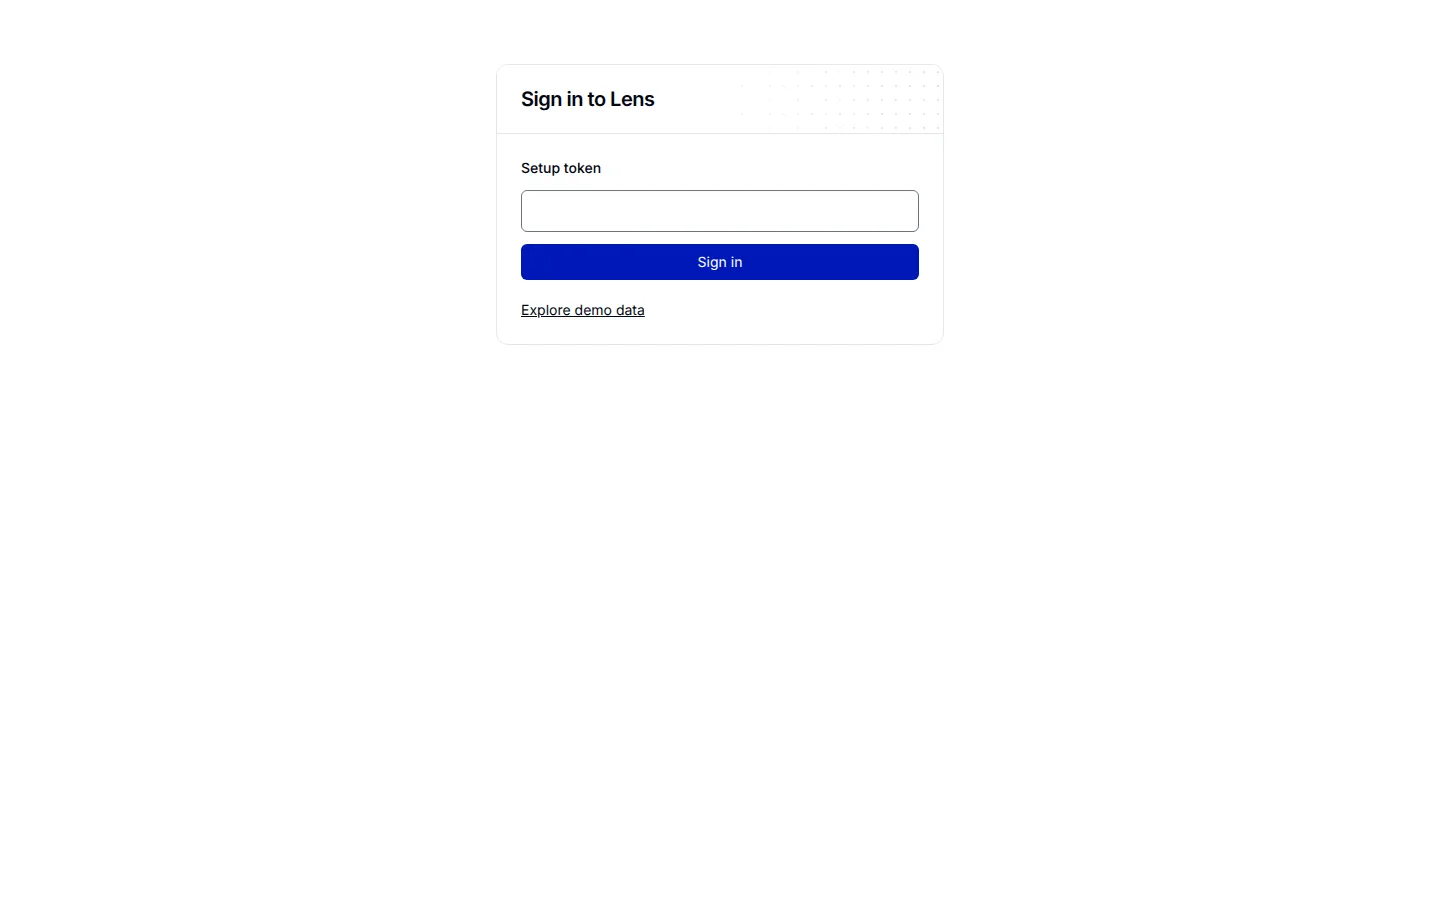
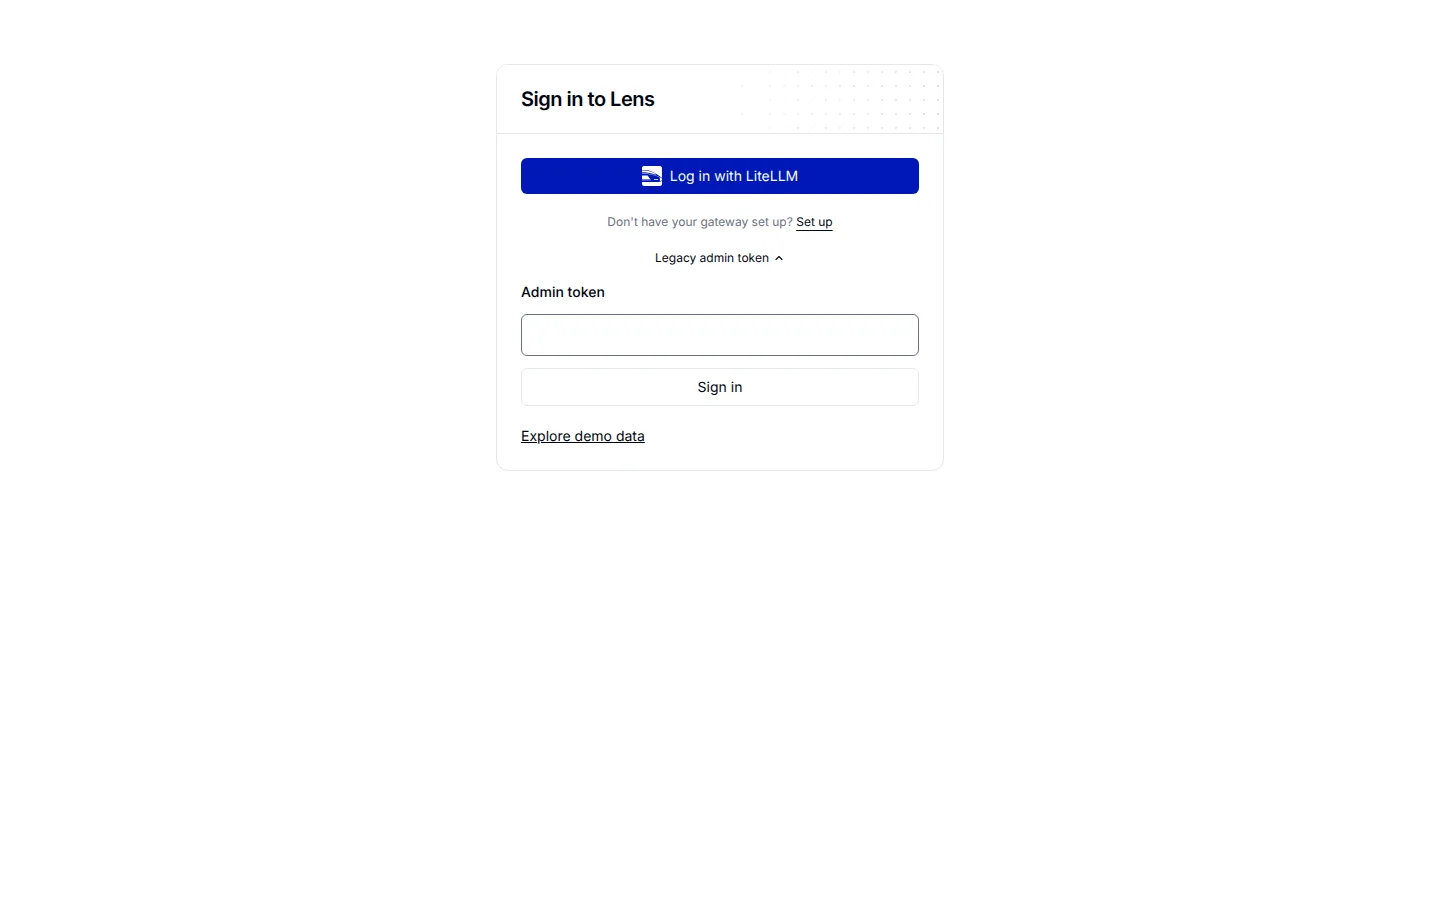
docs(lens): match the 0.3.0 sign-in page in the install guides

Changed region(s): [[0.3438, 0.1556, 0.6562, 0.3733], [0.3438, 0.4667, 0.4375, 0.4978], [0.4688, 0.4044, 0.5312, 0.4356]]

diff --git a/docs/proxy/lens/deployment/server.md b/docs/proxy/lens/deployment/server.md
@@ -15,7 +15,7 @@ cd lens-0.3.0
 ./start
 ```
 
-The script generates credentials in `deploy/lens/.env` and starts Lens with ClickHouse. Sign in at `/ui/` by pasting the `LENS_ADMIN_TOKEN` value from that file into the **Setup token** field. Stop with `docker compose -f deploy/lens/compose.yaml down` and restart with `./start`. Keep the extracted bundle, environment file and persistent volume
+The script generates credentials in `deploy/lens/.env` and starts Lens with ClickHouse. Sign in at `/ui/` by opening **Legacy admin token** and pasting the `LENS_ADMIN_TOKEN` value from that file into the **Admin token** field. Stop with `docker compose -f deploy/lens/compose.yaml down` and restart with `./start`. Keep the extracted bundle, environment file and persistent volume
 
 For help configuring an existing deployment, use [Set it up for me](https://github.com/BerriAI/lens/blob/main/docs/setup-with-agent.md). To connect the Lens service to an existing gateway, use [Add Lens to LiteLLM](./litellm.md#docker-compose)
 
@@ -82,6 +82,6 @@ Allow inbound HTTPS on port 443. Keep the database private and preserve the cont
 
 ## Check the installation {#4-check-the-installation}
 
-Open `https://lens.example.com/ui/` using your hostname and paste the generated admin token into the **Setup token** field. Complete the [first-trace check](../deployment.md#check-the-installation) from the agent's actual network. If you enabled investigations, verify one bounded investigation as well
+Open `https://lens.example.com/ui/` using your hostname and open **Legacy admin token** and paste the generated admin token into the **Admin token** field. Complete the [first-trace check](../deployment.md#check-the-installation) from the agent's actual network. If you enabled investigations, verify one bounded investigation as well
 
 Use [Back up and restore Lens](https://github.com/BerriAI/lens/blob/main/docs/backup.md) to retain the data, Keeper state, credentials and exact image together. Store backups outside this server and rehearse a restore. The supported database topology is one ClickHouse server; moving to external storage does not itself provide replication or automatic failover

diff --git a/docs/proxy/lens/deployment/development.md b/docs/proxy/lens/deployment/development.md
@@ -21,7 +21,7 @@ npm ci
 npm run dev
 ```
 
-The first start builds Lens, which compiles the Rust backend and takes about 22 minutes. It then generates private credentials in `deploy/lens/.env`, starts Lens and ClickHouse, and starts the UI at [http://127.0.0.1:3100/ui/](http://127.0.0.1:3100/ui/). Sign in by pasting the `LENS_ADMIN_TOKEN` value from that file into the **Setup token** field. Read it locally and keep it out of shared logs. UI changes reload automatically, and the development server forwards API requests to the Lens container
+The first start builds Lens, which compiles the Rust backend and takes about 22 minutes. It then generates private credentials in `deploy/lens/.env`, starts Lens and ClickHouse, and starts the UI at [http://127.0.0.1:3100/ui/](http://127.0.0.1:3100/ui/). Sign in by opening **Legacy admin token** and pasting the `LENS_ADMIN_TOKEN` value from that file into the **Admin token** field. Read it locally and keep it out of shared logs. UI changes reload automatically, and the development server forwards API requests to the Lens container
 
 Open **Home** and choose **Set up with your coding agent** or **Set up manually** to create a tracing key. Run your agent with the generated configuration. Home offers **Open trace** when the run arrives; the empty **Traces** page also has **Check for traces**. Provider configuration is only needed when you enable investigations or Signals
 

diff --git a/docs/proxy/lens/deployment/local.md b/docs/proxy/lens/deployment/local.md
@@ -18,9 +18,9 @@ It finishes in under a minute and prints the address to open and your setup toke
 credentials-1  | Open http://localhost:4318/ui/ and paste this setup token: <your token>
 ```
 
-Open [http://localhost:4318/ui/](http://localhost:4318/ui/), paste the token into the **Setup token** field, and select **Sign in**. To look around without a token, select **Explore demo data** on the same page.
+Open [http://localhost:4318/ui/](http://localhost:4318/ui/), open **Legacy admin token**, paste the token into the **Admin token** field, and select **Sign in**. To look around without a token, select **Explore demo data** on the same page.
 
-![Lens sign-in page with a field for the setup token.](/img/lens/quickstart-signin.webp)
+![Lens sign-in page with the Legacy admin token section open and its Admin token field.](/img/lens/quickstart-signin.webp)
 
 You need Docker with Docker Compose 2.24 or newer, and Docker must be running. You do not need Git, LiteLLM, Kubernetes, PostgreSQL, or a model key. The command downloads one [Compose file](https://github.com/BerriAI/lens/blob/main/deploy/lens/compose.yaml) and starts Lens and ClickHouse from published images. Lens generates its credentials on the first start and saves them in `.env` beside that file, where the token is `LENS_ADMIN_TOKEN`.
 

diff --git a/docs/proxy/lens/deployment/kubernetes.md b/docs/proxy/lens/deployment/kubernetes.md
@@ -47,7 +47,7 @@ curl --fail https://lens.example.com/health/ready
 
 ## Sign in
 
-Open `https://lens.example.com/ui/` and paste the generated admin token into the **Setup token** field. Read the token with:
+Open `https://lens.example.com/ui/` , open **Legacy admin token** and paste the generated admin token into the **Admin token** field. Read the token with:
 
 ```sh
 kubectl --namespace lens get secret lens-admin \
